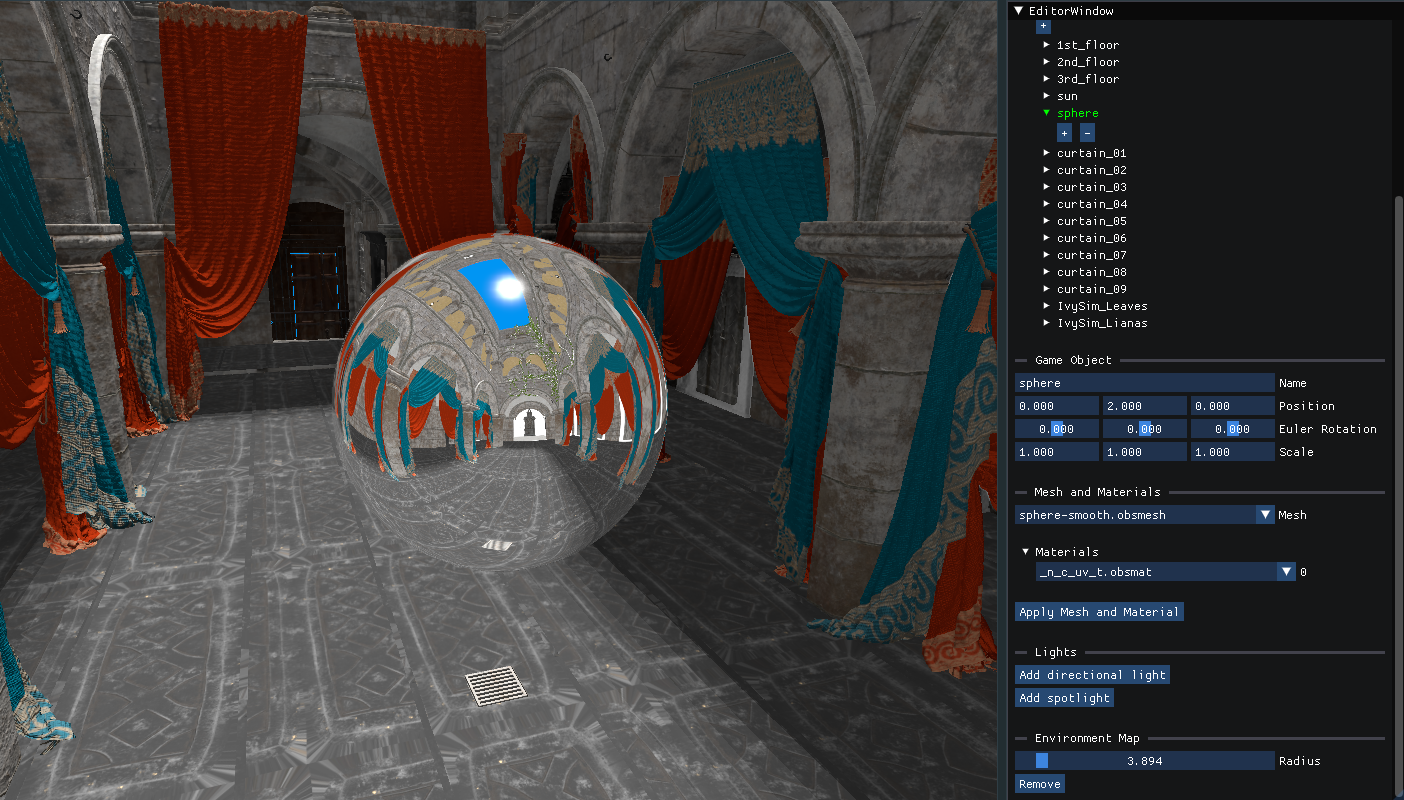
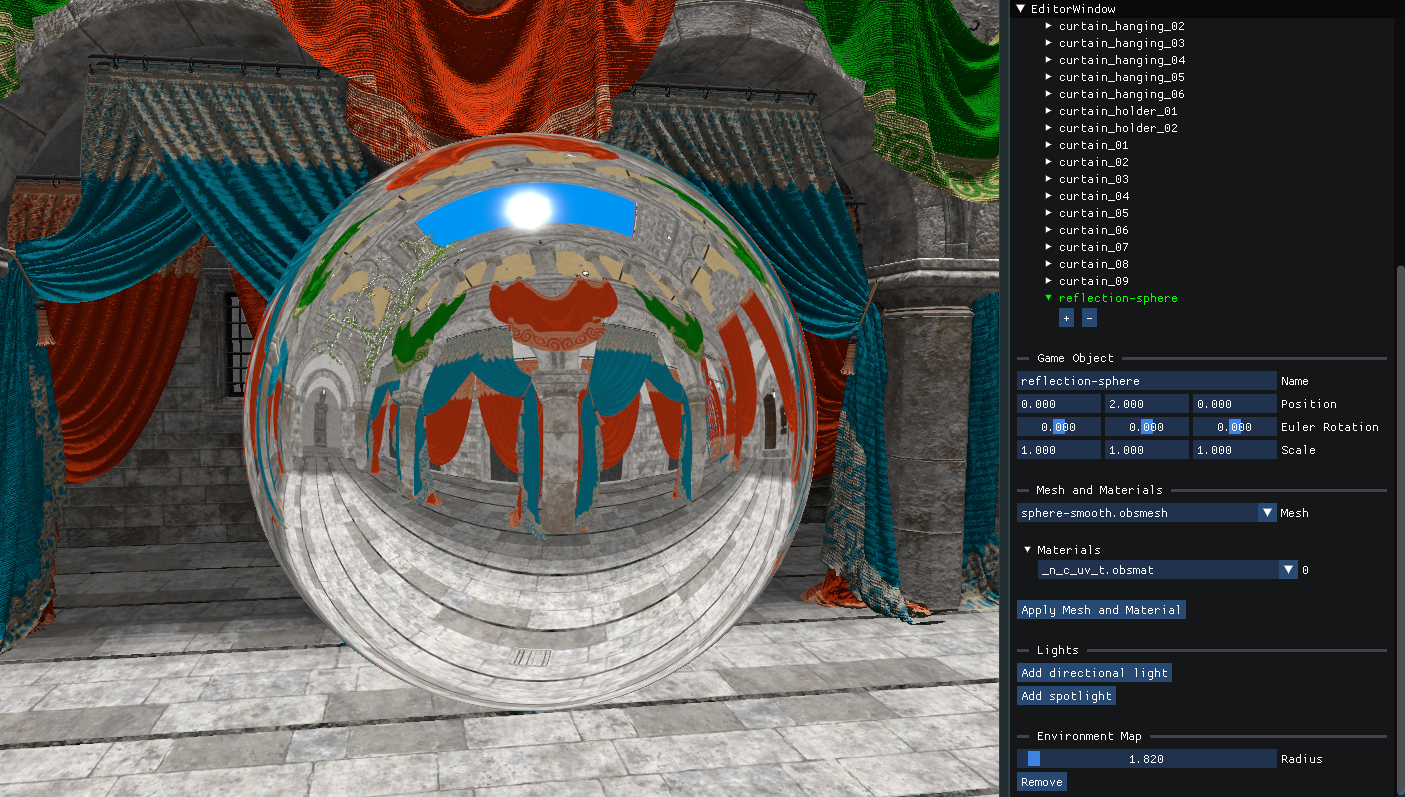
Fixed gltf import bug that caused default materials for an imported mesh to be mixed. Updated screenshots

diff --git a/libs/asset_converter/src/asset_converter_helpers.cpp b/libs/asset_converter/src/asset_converter_helpers.cpp
@@ -275,15 +275,24 @@ std::size_t generateVerticesFromGltf(
   outAabb.bottomCorner = glm::vec3{std::numeric_limits<float>::infinity()};
   outAabb.topCorner = glm::vec3{-std::numeric_limits<float>::infinity()};
   tinygltf::Mesh const& mesh = model.meshes[meshInd];
+  std::unordered_map<int, std::size_t> materialToSurfaceIndMap;
 
   for (std::size_t primitiveInd = 0; primitiveInd < mesh.primitives.size();
        ++primitiveInd) {
     ZoneScopedN("GLTF primitive");
 
     tinygltf::Primitive const& primitive = mesh.primitives[primitiveInd];
+    std::size_t surfaceInd;
 
-    int const matInd = outSurfaces.size() == 1 ? 0 : primitive.material;
-    std::vector<core::MeshIndexType>& surface = outSurfaces[matInd];
+    if (!materialToSurfaceIndMap.contains(primitive.material)) {
+      surfaceInd = outSurfaces.size();
+      materialToSurfaceIndMap[primitive.material] = surfaceInd;
+      outSurfaces.push_back({});
+    } else {
+      surfaceInd = materialToSurfaceIndMap.at(primitive.material);
+    }
+
+    std::vector<core::MeshIndexType>& surface = outSurfaces[surfaceInd];
 
     tinygltf::Accessor const& indAccessor = model.accessors[primitive.indices];
     tinygltf::BufferView const& indBufferView =

diff --git a/libs/asset_converter/src/asset_converter.cpp b/libs/asset_converter/src/asset_converter.cpp
@@ -397,7 +397,6 @@ bool AssetConverter::convertGltfToAsset(fs::path const& srcPath,
          &model, &outVertices = outVerticesPerMesh[i],
          &outSurfaces = outSurfacesPerMesh[i]]() {
           std::size_t const materialCnt = model.materials.size();
-          outSurfaces.resize(materialCnt ? materialCnt : 1);
           vertexCount = callGenerateVerticesFromGltfMesh(
               meshAssetInfo, model, meshInd, outVertices, outSurfaces,
               meshAssetInfo.aabb);
@@ -462,11 +461,6 @@ bool AssetConverter::convertGltfToAsset(fs::path const& srcPath,
 
     std::vector<std::vector<core::MeshIndexType>>& outSurfaces =
         outSurfacesPerMesh[i];
-
-    auto const removeIt =
-        std::remove_if(outSurfaces.begin(), outSurfaces.end(),
-                       [](auto const& s) { return s.empty(); });
-    outSurfaces.erase(removeIt, outSurfaces.end());
 
     std::size_t const vertInfoInt =
         representAsInteger({meshAssetInfo.hasNormals, meshAssetInfo.hasColors,
